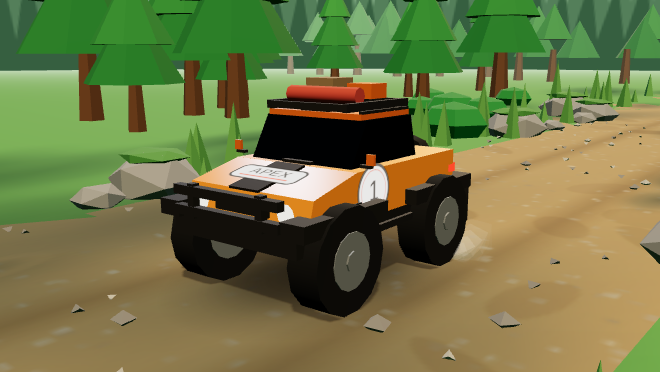
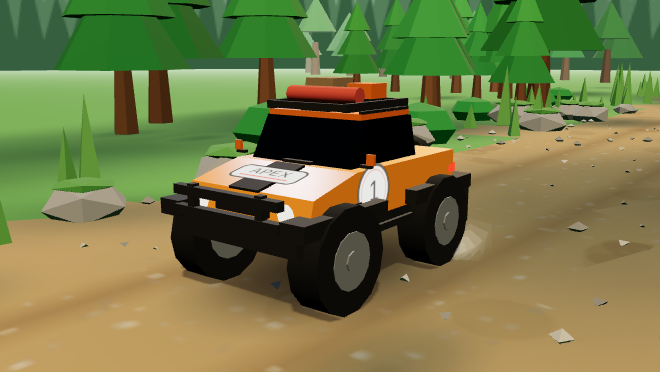
r265: per-tree tints on the pines, and split the diorama's RNG per subsystem
flatsurf.mjs measures which surface in the bay is flattest — each welded piece
masked, then the spread of luminance over its own pixels. The answer was the
pine skirts: 9.9% of the frame at sd 14, the lowest of anything large. Fifty
trees, one green, because welding by material is what keeps this menu at three
draw calls and the price has always been a single colour per mesh.

weld() now carries a per-piece tint through as a vertex colour: one buffer, no
extra draw calls. One tint per TREE, not per tier.

It measured as exactly nothing, twice. First because the tint call drew from
the shared rnd() and had re-rolled every placement, so the two forests were
different — the same confound that invalidated the r264 before/after. Then,
with tintab.mjs flipping vertexColors on fixed geometry, because
BufferGeometry.clone() copies userData BY REFERENCE: every clone shared one
object with its source, so all fifty trees read the last tint written. The
welded buffer held one distinct tint. Assign a fresh object instead, and
tintab.mjs now reports distinctTints first.

With real tints, skirts sd 14.5 -> 16.5; range widened to +/-28% value and
+/-17% warmth -> 18.0, crown warm spread 6.5 -> 8.2.

The single rnd() is now six streams (rSky, rTrail, rDap, rTree, rRock, rScrub),
so a change to the pines cannot move a rock. Three rounds running an insertion
re-rolled the whole forest, twice invalidating a measurement and twice dropping
something into the camera's lap.
[…]

diff --git a/src/main.js b/src/main.js
@@ -5108,8 +5108,20 @@ class Game {
       grass: 0x4f8a35, dirt: 0x9c7a48, rut: 0x86663a, rock: 0x8d8578, bush: 0x2f7a30,
       moss: 0x4c7f33, stone: 0xb0a289, stoneDk: 0x82786a };
     const g = new THREE.Group();
-    let seed = 20260823;
-    const rnd = () => ((seed = (seed * 1103515245 + 12345) & 0x7fffffff) / 0x7fffffff);
+    // ONE STREAM PER SUBSYSTEM, and this is a measurement tool, not tidiness.
+    // The whole diorama used to draw from a single seeded `rnd()`, which means
+    // INSERTING a call anywhere re-rolls every placement after it: adding the
+    // canopy gobo moved every tree, rock and bush, and adding a per-tree tint
+    // moved them all again. Twice that turned a before/after into two
+    // different forests and made the numbers meaningless — and once it dropped
+    // a bush, then a pine, into the camera's lap. Separate streams mean a
+    // change to the pines cannot move a rock, and an A/B is an A/B.
+    const stream = (n) => {
+      let v = n >>> 0;
+      return () => ((v = (v * 1103515245 + 12345) & 0x7fffffff) / 0x7fffffff);
+    };
+    const rSky = stream(20260823), rTrail = stream(0x51ee11), rDap = stream(0xc0ffee),
+      rTree = stream(0x7a1115), rRock = stream(0x9b0c17), rScrub = stream(0x3ee9a2);
 
     // --- the sky, and the far treeline ------------------------------------
     //
@@ -5149,7 +5161,7 @@ class Game {
       x.beginPath();
       x.moveTo(0, 128);
       for (let px = -10; px < 1034; px += 9 + band * 3) {
-        const h = base - hi * (0.45 + rnd() * 0.55);
+        const h = base - hi * (0.45 + rSky() * 0.55);
         x.lineTo(px, h); x.lineTo(px + (5 + band * 2), base);
       }
       x.lineTo(1034, 128); x.closePath(); x.fill();
@@ -5189,14 +5201,14 @@ class Game {
       t2.fillStyle = rg; t2.fillRect(rx, 0, rw, 256);
     }
     for (let i = 0; i < 420; i++) {                  // gravel
-      const v = 130 + (rnd() * 70 | 0);
-      t2.fillStyle = `rgba(${v},${v - 18},${v - 46},${0.2 + rnd() * 0.35})`;
-      t2.fillRect(rnd() * 128, rnd() * 256, 1 + rnd() * 2, 1 + rnd() * 2);
+      const v = 130 + (rTrail() * 70 | 0);
+      t2.fillStyle = `rgba(${v},${v - 18},${v - 46},${0.2 + rTrail() * 0.35})`;
+      t2.fillRect(rTrail() * 128, rTrail() * 256, 1 + rTrail() * 2, 1 + rTrail() * 2);
     }
     for (let i = 0; i < 14; i++) {                   // damp patches
-      t2.fillStyle = `rgba(96,74,44,${0.10 + rnd() * 0.14})`;
+      t2.fillStyle = `rgba(96,74,44,${0.10 + rTrail() * 0.14})`;
       t2.beginPath();
-      t2.ellipse(rnd() * 128, rnd() * 256, 6 + rnd() * 16, 4 + rnd() * 10, rnd() * 3, 0, 6.3);
+      t2.ellipse(rTrail() * 128, rTrail() * 256, 6 + rTrail() * 16, 4 + rTrail() * 10, rTrail() * 3, 0, 6.3);
       t2.fill();
     }
     const trailTex = new THREE.CanvasTexture(tc);
@@ -5215,12 +5227,12 @@ class Game {
     const scuffs = [];
     for (let i = 0; i < 46; i++) {
       const side = i % 2 ? 1 : -1;
-      const w = 1.4 + rnd() * 3.4, d = 1.6 + rnd() * 4;
-      const sx = side * (5.25 + (rnd() - 0.35) * 2.2);
-      const sz = -70 + rnd() * 96;
+      const w = 1.4 + rTrail() * 3.4, d = 1.6 + rTrail() * 4;
+      const sx = side * (5.25 + (rTrail() - 0.35) * 2.2);
+      const sz = -70 + rTrail() * 96;
       const q = new THREE.PlaneGeometry(w, d);
       q.rotateX(-Math.PI / 2);
-      q.rotateY(rnd() * 3);
+      q.rotateY(rTrail() * 3);
       q.translate(sx, 0.008, sz);
       scuffs.push(q);
     }
@@ -5244,7 +5256,7 @@ class Game {
       rg.addColorStop(0.5, `rgba(154,168,176,${a * 0.6})`);
       rg.addColorStop(1, 'rgba(255,255,255,0)');
       d2.save();
-      d2.translate(cx, cy); d2.rotate(rnd() * 3); d2.scale(1, 0.5 + rnd() * 0.7);
+      d2.translate(cx, cy); d2.rotate(rDap() * 3); d2.scale(1, 0.5 + rDap() * 0.7);
       d2.translate(-cx, -cy);
       d2.fillStyle = rg;
       d2.beginPath(); d2.arc(cx, cy, r, 0, 6.3); d2.fill();
@@ -5252,28 +5264,31 @@ class Game {
     };
     // kept off the border, so the plane's own rectangular edge is pure white
     // and there is no line in the grass where the dapple stops
-    for (let i = 0; i < 19; i++) blob(70 + rnd() * 372, 70 + rnd() * 372, 34 + rnd() * 70, 0.72 + rnd() * 0.28);
-    for (let i = 0; i < 22; i++) blob(70 + rnd() * 372, 70 + rnd() * 372, 8 + rnd() * 18, 0.45 + rnd() * 0.35);
+    for (let i = 0; i < 19; i++) blob(70 + rDap() * 372, 70 + rDap() * 372, 34 + rDap() * 70, 0.72 + rDap() * 0.28);
+    for (let i = 0; i < 22; i++) blob(70 + rDap() * 372, 70 + rDap() * 372, 8 + rDap() * 18, 0.45 + rDap() * 0.35);
     // ...and the long ones. A canopy throws round patches, but the TRUNKS
     // throw bars right across the trail, and those are what tell you the sun
     // is low and off to one side rather than straight overhead.
     for (let i = 0; i < 7; i++) {
-      const bx = 60 + rnd() * 392, by = 60 + rnd() * 392, bl = 90 + rnd() * 150;
+      const bx = 60 + rDap() * 392, by = 60 + rDap() * 392, bl = 90 + rDap() * 150;
       d2.save();
-      d2.translate(bx, by); d2.rotate(1.05 + (rnd() - 0.5) * 0.5);
+      d2.translate(bx, by); d2.rotate(1.05 + (rDap() - 0.5) * 0.5);
       const lg = d2.createLinearGradient(0, -bl / 2, 0, bl / 2);
       lg.addColorStop(0, 'rgba(255,255,255,0)');
       lg.addColorStop(0.5, 'rgba(128,146,156,0.62)');
       lg.addColorStop(1, 'rgba(255,255,255,0)');
       d2.fillStyle = lg;
       d2.filter = 'blur(6px)';
-      d2.fillRect(-(7 + rnd() * 9), -bl / 2, 14 + rnd() * 18, bl);
+      d2.fillRect(-(7 + rDap() * 9), -bl / 2, 14 + rDap() * 18, bl);
       d2.restore();
     }
     d2.filter = 'none';
     const dapTex = new THREE.CanvasTexture(dc);
     dapTex.colorSpace = THREE.SRGBColorSpace;
-    const dapple = new THREE.Mesh(new THREE.PlaneGeometry(46, 104),
+    // 62 ACROSS, NOT 46. The bay camera sees well past the verge on the near
+    // side, and grass outside the gobo is grass with no canopy over it — a
+    // pale flat band down one edge of the frame.
+    const dapple = new THREE.Mesh(new THREE.PlaneGeometry(62, 104),
       new THREE.MeshBasicMaterial({ map: dapTex, transparent: true, fog: false,
         blending: THREE.MultiplyBlending, depthWrite: false, toneMapped: false }));
     dapple.rotation.x = -Math.PI / 2;
@@ -5285,12 +5300,39 @@ class Game {
     // is fifty-four draw calls behind a menu; merged by part it is three.
     const trunks = [], lows = [], mids = [], tops = [], rocks = [], bushes = [],
       moss = [], stones = [], stonesDk = [];
-    const put = (arr, geo, sx, sy, sz, tx, ty, tz, ry = 0) => {
+    // `tint` is a PER-PIECE MULTIPLIER carried through the weld as a vertex
+    // colour. Welding by material is what keeps this menu at three draw calls
+    // for fifty trees, and the price has always been that every tree is
+    // exactly the same green. A colour attribute costs one buffer and no draw
+    // calls at all, and it is the only way to have both.
+    const put = (arr, geo, sx, sy, sz, tx, ty, tz, ry = 0, tint = null) => {
       const q = geo.clone();
       q.scale(sx, sy, sz);
       if (ry) q.rotateY(ry);
       q.translate(tx, ty, tz);
+      // ASSIGN A FRESH OBJECT, do not write into the one that is there.
+      // `BufferGeometry.clone()` copies `userData` BY REFERENCE, so every
+      // clone of `lowGeo` shares one object with `lowGeo` itself: writing
+      // `q.userData.tint` gave all fifty trees the LAST tint assigned. The
+      // wood looked varied in the screenshot and was not — `tintab.mjs`
+      // reported the same numbers with the tints on and off, and the count of
+      // distinct tints in the welded buffer was 1.
+      q.userData = { tint };
       arr.push(q);
+    };
+    // ONE TINT PER TREE, not per tier: a trunk, a skirt and a crown that each
+    // rolled their own would be three plants stacked up. Value spread plus a
+    // warm/cool shift, because a wood varies in both.
+    const treeTint = () => {
+      // RANGE SET BY MEASUREMENT. At +/-20% value and +/-9% warmth,
+      // `tintab.mjs` put the pine skirts at luminance sd 16.5 against 14.5
+      // flat and the WARM spread at 4.3 -> 4.4, which is nothing: the tint was
+      // there but too narrow to see past the facet shading. Wider on both
+      // axes, and the warm one nearly doubled, because a wood varies in hue
+      // more than it varies in brightness.
+      const k = 0.72 + rTree() * 0.56;
+      const w = (rTree() - 0.5) * 0.34;
+      return [k * (1 + w), k, k * (1 - w * 0.9)];
     };
     const trunkGeo = new THREE.CylinderGeometry(0.3, 0.52, 3.4, 6);
     trunkGeo.translate(0, 1.7, 0);
@@ -5306,22 +5348,33 @@ class Game {
     topGeo.translate(0, 8.4, 0);
     for (let i = 0; i < 30; i++) {
       const side = i % 2 ? 1 : -1;
-      const lane = 11.5 + rnd() * 24;
+      // IN TO 9.6, from 11.5. The trail edge is at 5.25 and a skirt is 2.6
+      // across, so a tree on this lane reaches to within two metres of the
+      // dirt — which is what makes the path read as confined rather than as a
+      // clearing with a wood somewhere behind it. 8.2 was closer still and
+      // cropped every near crown off the top of the frame, which throws away
+      // the stacked silhouette the third tier exists for.
+      const lane = 9.6 + rTree() * 22;
       const tx = side * lane;
-      const tz = -58 + rnd() * 74;
-      const sc = 0.78 + rnd() * 0.85;
-      put(trunks, trunkGeo, sc, sc, sc, tx, 0, tz);
-      put(lows, lowGeo, sc, sc, sc, tx, 0, tz);
-      put(mids, midGeo, sc, sc, sc, tx, 0, tz);
-      put(tops, topGeo, sc, sc, sc, tx, 0, tz);
+      // BEHIND THE CAR, like the bushes and the rocks. This ran to z +16, and
+      // a 10 u pine that close to the camera is a green wedge across the
+      // corner of a picture whose whole job is to show you a car.
+      const tz = -58 + rTree() * 56;
+      const sc = 0.78 + rTree() * 0.85;
+      const t = treeTint();
+      put(trunks, trunkGeo, sc, sc, sc, tx, 0, tz, 0, t);
+      put(lows, lowGeo, sc, sc, sc, tx, 0, tz, 0, t);
+      put(mids, midGeo, sc, sc, sc, tx, 0, tz, 0, t);
+      put(tops, topGeo, sc, sc, sc, tx, 0, tz, 0, t);
     }
     // a mask row across the back, so the ground never meets the painted sky
     for (let i = 0; i < 22; i++) {
-      const tx = -80 + i * 7.4 + rnd() * 3;
-      const sc = 1.1 + rnd() * 0.6;
-      put(trunks, trunkGeo, sc, sc, sc, tx, 0, -78 - rnd() * 12);
-      put(lows, lowGeo, sc, sc, sc, tx, 0, -78 - rnd() * 12);
-      put(mids, midGeo, sc, sc, sc, tx, 0, -78 - rnd() * 12);
+      const tx = -80 + i * 7.4 + rTree() * 3;
+      const sc = 1.1 + rTree() * 0.6;
+      const t = treeTint();
+      put(trunks, trunkGeo, sc, sc, sc, tx, 0, -78 - rTree() * 12, 0, t);
+      put(lows, lowGeo, sc, sc, sc, tx, 0, -78 - rTree() * 12, 0, t);
+      put(mids, midGeo, sc, sc, sc, tx, 0, -78 - rTree() * 12, 0, t);
       // NO CROWN ON THE MASK ROW. `dioparts.mjs` put the top tier at 1.5
       // pixels per triangle — the worst rate in the diorama by four times —
       // and this row is the reason: it is 78 u back behind fog, doing one job,
@@ -5338,10 +5391,10 @@ class Game {
     // is made of, which is the only reason a rock is interesting.
     for (let i = 0; i < 16; i++) {
       const side = i % 2 ? 1 : -1;
-      const rx = side * (5.4 + rnd() * 3.6);
-      const rz = -38 + rnd() * 40;              // never in front of the car
-      const sc = 0.5 + rnd() * 1.1;
-      const ry = rnd() * 3;
+      const rx = side * (5.4 + rRock() * 3.6);
+      const rz = -38 + rRock() * 40;              // never in front of the car
+      const sc = 0.5 + rRock() * 1.1;
+      const ry = rRock() * 3;
       put(rocks, rockGeo, sc * 1.3, sc * 0.72, sc * 1.1, rx, sc * 0.3, rz, ry);
       // ...and the big ones wear moss on top, which is the one detail that
       // says the rock has been there longer than the trail has.
@@ -5364,32 +5417,49 @@ class Game {
     for (let i = 0; i < 150; i++) {
       const big = i % 4 === 0;
       // over the whole width, but banked at the verges where a tyre throws it
-      const px = rnd() < 0.58 ? (rnd() - 0.5) * 10.2
-        : (rnd() < 0.5 ? 1 : -1) * (4.9 + rnd() * 2.4);
-      const pz = -30 + rnd() * 48;
-      const sc = big ? 0.13 + rnd() * 0.075 : 0.065 + rnd() * 0.065;
-      put(rnd() < 0.5 ? stones : stonesDk, big ? cobbleGeo : chipGeo,
-        sc * 1.3, sc * 0.78, sc * 1.1, px, sc * 0.34, pz, rnd() * 3);
+      const px = rRock() < 0.58 ? (rRock() - 0.5) * 10.2
+        : (rRock() < 0.5 ? 1 : -1) * (4.9 + rRock() * 2.4);
+      const pz = -30 + rRock() * 48;
+      const sc = big ? 0.13 + rRock() * 0.075 : 0.065 + rRock() * 0.065;
+      put(rRock() < 0.5 ? stones : stonesDk, big ? cobbleGeo : chipGeo,
+        sc * 1.3, sc * 0.78, sc * 1.1, px, sc * 0.34, pz, rRock() * 3);
     }
     for (let i = 0; i < 14; i++) {
       const side = i % 2 ? 1 : -1;
-      const bx = side * (7.5 + rnd() * 12);
+      const bx = side * (7.5 + rScrub() * 12);
       // BEHIND THE SUBJECT, ALWAYS. This ran to z +10, which is nearer the
       // camera than the car is, and a 2.5 u scrub bush there is a green blob
       // across the corner of a picture whose whole job is to show you a car.
-      const bz = -46 + rnd() * 44;
-      const sc = 0.8 + rnd() * 0.9;
+      const bz = -46 + rScrub() * 44;
+      const sc = 0.8 + rScrub() * 0.9;
       put(bushes, bushGeo, sc * 1.5, sc * 0.85, sc * 1.4, bx, sc * 0.5, bz);
     }
     const weld = (geos) => {
-      const parts = geos.map((q) => (q.index ? q.toNonIndexed() : q));
+      // toNonIndexed() DROPS userData, so the tint has to be read off the
+      // source geometry and carried across by hand.
+      const parts = geos.map((q) => {
+        const t = q.userData.tint;
+        const r = q.index ? q.toNonIndexed() : q;
+        r.userData.tint = t;
+        return r;
+      });
       let n = 0;
       for (const q of parts) n += q.attributes.position.array.length;
       const pos = new Float32Array(n);
+      const col = parts.some((q) => q.userData.tint) ? new Float32Array(n) : null;
       let o = 0;
-      for (const q of parts) { pos.set(q.attributes.position.array, o); o += q.attributes.position.array.length; }
+      for (const q of parts) {
+        const a = q.attributes.position.array;
+        pos.set(a, o);
+        if (col) {
+          const t = q.userData.tint || [1, 1, 1];
+          for (let k = 0; k < a.length; k += 3) { col[o + k] = t[0]; col[o + k + 1] = t[1]; col[o + k + 2] = t[2]; }
+        }
+        o += a.length;
+      }
       const out = new THREE.BufferGeometry();
       out.setAttribute('position', new THREE.BufferAttribute(pos, 3));
+      if (col) out.setAttribute('color', new THREE.BufferAttribute(col, 3));
       out.computeVertexNormals();
       return out;
     };
@@ -5403,18 +5473,20 @@ class Game {
     tuftGeo.translate(0, 0.57, 0);
     for (let i = 0; i < 90; i++) {
       const side = i % 2 ? 1 : -1;
-      const gx = side * (5.5 + rnd() * 4.2);
-      const gz = -58 + rnd() * 82;
-      const sc = 0.9 + rnd() * 1.0;
-      put(tufts, tuftGeo, sc, sc * (0.85 + rnd() * 0.8), sc, gx, 0, gz, rnd() * 3);
+      const gx = side * (5.5 + rScrub() * 4.2);
+      const gz = -58 + rScrub() * 82;
+      const sc = 0.9 + rScrub() * 1.0;
+      put(tufts, tuftGeo, sc, sc * (0.85 + rScrub() * 0.8), sc, gx, 0, gz, rScrub() * 3);
     }
     for (const [geos, col, flat] of [[trunks, F.trunk, false], [lows, F.low, true],
       [mids, F.mid, true], [tops, F.top, true], [rocks, F.rock, true],
       [moss, F.moss, true], [stones, F.stone, true], [stonesDk, F.stoneDk, true],
       [bushes, F.bush, true],
       [tufts, 0x5e8f3e, true], [scuffs, F.dirt, false]]) {
-      const m = new THREE.Mesh(weld(geos),
-        new THREE.MeshStandardMaterial({ color: col, roughness: 0.95, flatShading: flat }));
+      const geo = weld(geos);
+      const m = new THREE.Mesh(geo,
+        new THREE.MeshStandardMaterial({ color: col, roughness: 0.95, flatShading: flat,
+          vertexColors: !!geo.attributes.color }));
       m.receiveShadow = true;
       g.add(m);
     }

diff --git a/HANDOVER.md b/HANDOVER.md
@@ -3078,3 +3078,67 @@ the whole job of this screen is to show you a car.
 `baypair.mjs` shoots the bay at a PARKED angle from a port you name, so the two
 halves of an A/B are the same picture of the same car — and prints the build
 tag it actually loaded, since srv.mjs has served one branch on both ports.
+
+## r265 — THE FLATTEST THING IN THE PICTURE, AND A TINT THAT WAS NOT THERE
+"It looks a bit plain" is not a finding, so `flatsurf.mjs` makes it one: take
+each welded piece of the diorama, work out which pixels it owns (hide it, diff,
+mask), then report the SPREAD of luminance over those pixels in the real frame.
+A big surface with a tiny spread is a flat fill pretending to be a material.
+
+The answer was not the grass — the canopy gobo is painting variation onto that
+already (sd 23.3). It was the PINE SKIRTS: 9.9% of the bay at **sd 14.0**, the
+lowest spread of anything large in the frame. Fifty trees, one green.
+
+### VERTEX COLOURS, BECAUSE WELDING IS WHY THEY MATCH
+Welding by material is what keeps this menu at three draw calls for fifty
+trees, and the price has always been that every tree is the same colour. A
+colour attribute costs one buffer and no draw calls at all, so `weld()` now
+carries a per-piece tint through, and each tree gets ONE — trunk, skirt and
+crown together, because three tiers that each rolled their own are three plants
+stacked up.
+
+### AND IT DID NOTHING, TWICE
+First measurement: pine skirt sd 14 → 11.9. *Flatter.* But the tint call draws
+from the diorama's `rnd()`, so it had re-rolled every placement after it and
+the two forests were different — the same confound that had already invalidated
+the r264 before/after. So `tintab.mjs` flips `material.vertexColors` on the
+already-built geometry instead: same trees, same camera, one flag.
+
+Second measurement: **every number identical to the tenth, on all four
+meshes.** A change that measures as exactly nothing is usually not a weak
+change; it is an input that never arrived. It hadn't:
+
+> `BufferGeometry.clone()` copies `userData` BY REFERENCE. Every clone of
+> `lowGeo` shared one object with `lowGeo` itself, so `q.userData.tint = t`
+> wrote into that one object and all fifty trees read the last write.
+
+The welded buffer held **one distinct tint**. The screenshot had looked more
+varied to me and it was not; what I was reading as fifty greens was facet
+shading and fog. `q.userData = { tint }` — assign a fresh object, never write
+into the one that is there. `tintab.mjs` now reports `distinctTints` FIRST,
+because that is the check that catches this in one line.
+
+With real tints: skirts **sd 14.5 → 16.5**. Still narrow, so the range went to
+±28% value and ±17% warmth, measured again: **18.0**, and the warm spread on
+the crowns 6.5 → 8.2. A wood varies in hue more than in brightness, and the
+first range was too tight on exactly that axis.
+
+### ONE RNG STREAM PER SUBSYSTEM
+Three rounds running, an insertion re-rolled the whole forest: the gobo moved
+every tree, the tint moved them all again, and twice that turned a before/after
+into two different pictures. It also dropped a bush into the camera's lap in
+r264 and a whole pine into it here. So the single `rnd()` is now six streams —
+`rSky`, `rTrail`, `rDap`, `rTree`, `rRock`, `rScrub`. A change to the pines
+cannot move a rock, and an A/B is an A/B.
+
+With that stable, three framing fixes that were being masked by the churn: near
+pines held to z -58..-2 (they ran to +16, and a 10 u tree that close is a green
+wedge across the corner), their lane in from 11.5 to 9.6 so the wood crowds the
+trail instead of standing back from it — 8.2 was closer still and cropped every
+near crown off the top, which throws away the silhouette the third tier exists
+for — and the canopy plane out from 46 to 62, because the camera sees well past
+the verge and grass outside the gobo is a pale flat band down one edge.
+
+Gates: bay mean luminance 115, transparent 0%; car icons unchanged at 79-100;
+`boot.mjs` 4/4; `farplane.mjs` clean; second diorama still free; 8829 → 8909
+triangles (the colour buffer, not geometry).

diff --git a/tools-scratch/README.md b/tools-scratch/README.md
@@ -180,6 +180,20 @@ real time to get right and the next session should not rebuild them.
                 beside them. It caught 150 grass tufts costing 1800 triangles —
                 22% of the diorama's geometry — for 1.4% of the frame, because
                 at that camera distance a 0.75 u blade is two pixels.
+- `flatsurf.mjs` which surface in the bay is FLATTEST. Each welded piece is
+                masked (hide it, diff), then the spread of luminance over its
+                own pixels is reported — sd and p10-p90 — beside its share of
+                the frame. A big surface with a tiny spread is a flat fill
+                pretending to be a material. It named the pine skirts: 9.9% of
+                the bay at sd 14, the lowest of anything large.
+- `tintab.mjs`  the per-tree vertex tints, A/B'd WITHOUT MOVING A TREE — it
+                flips `material.vertexColors` on the already-built geometry,
+                because rebuilding the scene re-rolls its layout and then the
+                two halves are different forests. It reports `distinctTints`
+                first: a run where both columns match to the tenth is nearly
+                always a weld that carried ONE colour, since
+                `BufferGeometry.clone()` copies `userData` by reference and
+                `q.userData.tint = t` writes into the source geometry's object.
 - `baypair.mjs`  the same bay, the same PARKED turntable angle, from a port you
                 name: `node baypair.mjs 8902 out.png 2.05`. A before/after is
                 worthless if the car is at a different angle in each shot, and
